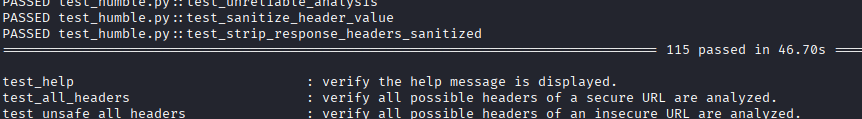
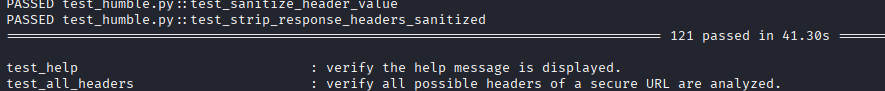
4. Fix: CSP host/scheme sources are ignored under 'strict-dynamic'.

diff --git a/tests/test_humble.py b/tests/test_humble.py
@@ -80,6 +80,7 @@ HUMBLE_TEST_FILES = {
     "CLIENT_ERROR": "client_error_test.txt",
     "CSP_BASE64_NONCE": "headers_test_csp_base64_nonce.txt",
     "CSP_HEX_NONCE": "headers_test_csp_hex_nonce.txt",
+    "CSP_STRICT_DYNAMIC": "headers_test_csp_strict_dynamic.txt",
     "CSP_UNSAFE_INLINE": "headers_test_csp_unsafe_inline.txt",
     "NO_HEADERS": "headers_test_none.txt",
     "NO_SEC_HEADERS": "headers_test_nonesecurity.txt",
@@ -217,6 +218,9 @@ TEST_CFGS = {
                                   "found as fallback"),
     "test_csp_hex_nonce": (["-u", TEST_URLS[2], "-if", PATHS["CSP_HEX_NONCE"]],
                            "Analysis Grade"),
+    "test_csp_strict_dynamic": (["-u", TEST_URLS[2], "-if",
+                                 PATHS["CSP_STRICT_DYNAMIC"]],
+                                "Review the directive 'img-src'."),
     "test_csp_unsafe_inline": (["-u", TEST_URLS[2], "-if",
                                 PATHS["CSP_UNSAFE_INLINE"]],
                                "Review the directive 'script-src'."),

diff --git a/humble.py b/humble.py
@@ -1207,6 +1207,8 @@ def csp_check_broad(csp_dirs_vals):
     """`Content-Security-Policy` header check related to broad values."""
     csp_broad_v, csp_broad_dirs = set(), set()
     for dir_vals in filter(str.strip, csp_dirs_vals):
+        if dir_vals.startswith("script-src") and "'strict-dynamic'" in dir_vals:
+            continue
         if broad := csp_broad_values(dir_vals):
             csp_broad_v |= broad
             csp_broad_dirs.add(dir_vals.split()[0])

diff --git a/README.md b/README.md
@@ -91,7 +91,7 @@
 :heavy_check_mark: Can display guidelines for enabling security HTTP response headers on popular frameworks, servers, and services.<br />
 :heavy_check_mark: Can exclude HTTP response headers across all analyses via [humble.skip](#global-humbleskip) file.<br />
 :heavy_check_mark: [AI](#AI)-driven security triage and remediation guidance.<br />
-:heavy_check_mark: Includes over 100 [unit tests](#unit-tests) to help verify it works correctly in your environment; requires <a href="https://pypi.org/project/pytest/" target="_blank">pytest</a> and <a href="https://pypi.org/project/pytest-cov/">pytest-cov</a>.<br />
+:heavy_check_mark: Includes over 120 [unit tests](#unit-tests) to help verify it works correctly in your environment; requires <a href="https://pypi.org/project/pytest/" target="_blank">pytest</a> and <a href="https://pypi.org/project/pytest-cov/">pytest-cov</a>.<br />
 :heavy_check_mark: Classes and functions documented at <a href="https://humble.readthedocs.io/en/latest/" target="_blank">Read the Docs</a>.<br />
 :heavy_check_mark: Code regularly audited with several quality, style and security [tools](#quality-style-and-security-tools).<br />
 :heavy_check_mark: Tested, one by one, on thousands of URLs.<br />
